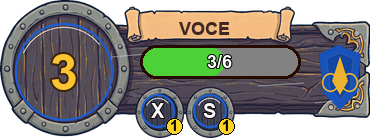
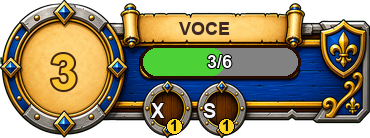
aa

diff --git a/css/game.css b/css/game.css
@@ -148,10 +148,6 @@ body.pvp-waiting-table #game-background::after { opacity: 0.45; animation-durati
 #p-stats-cluster .mastery-bloqueio .mastery-symbol { transform: translate(-50%, -50%); font-size: 21px; }
 #p-stats-cluster .mastery-lvl { position: absolute; bottom: -5px; right: -5px; width: 16px; height: 16px; font-size: 10px; border: 1px solid #000; }
 #m-stats-cluster { position: fixed; top: 20px; right: calc(50% - 50vw + 40px); width: 370px; height: 138px; --cluster-art-url: url('../assets/img/cluster_inimigo.webp'); --cluster-art-height: 100%; --cluster-art-top: 0%; overflow: visible; background-image: var(--cluster-art-url) !important; background-size: 100% 100%; background-repeat: no-repeat; background-position: center; background-color: transparent !important; border: none !important; border-radius: 0 !important; box-shadow: none !important; padding: 0 !important; min-width: auto !important; display: block !important; z-index: 100; filter: drop-shadow(0 10px 0px rgba(0, 0, 0, 0.5)); animation: hudFloat 4s ease-in-out infinite; }
-#p-stats-cluster.cluster-skin-equipped { background-image: none !important; }
-#p-stats-cluster.cluster-skin-equipped::before { content: ""; }
-#m-stats-cluster.cluster-skin-equipped { background-image: none !important; }
-#m-stats-cluster.cluster-skin-equipped::before { content: ""; transform: scaleX(-1); }
 #m-stats-cluster .unit-info { display: contents; }
 #m-stats-cluster .lvl-circle { position: absolute; right: 30px; top: 38px; width: 68px; height: 68px; background: transparent; border: none; box-shadow: none; color: #fbc531; font-family: 'Russo One', sans-serif; font-size: 50px; text-shadow: 2px 2px 0 #3c220f, -1px -1px 0 #602d0c, 1px -1px 0 #602d0c, -1px 1px 0 #602d0c, 1px 1px 0 #602d0c; display: flex; justify-content: center; align-items: center; margin: 0; }
 #m-stats-cluster .unit-name { position: absolute; right: 100px; top: 17px; width: 210px; font-family: 'MedievalSharp', cursive; font-size: 18px; color: #3e2723 !important; font-weight: 900; text-align: center; text-transform: uppercase; text-shadow: none; margin: 0; }

diff --git a/js/main.js b/js/main.js
@@ -824,7 +824,7 @@ function applyClusterSkinForUnit(u) {
     const fallback = u === player ? 'assets/img/cluster_jogador.webp' : 'assets/img/cluster_inimigo.webp';
     const assetPath = item?.asset || fallback;
     const assetUrlObj = new URL(assetPath, window.location.href);
-    if(item?.asset) assetUrlObj.searchParams.set('v', '20260701-knight-template-locked');
+    if(item?.asset) assetUrlObj.searchParams.set('v', '20260701-knight-ai-visible');
     const assetUrl = assetUrlObj.href;
     const artHeight = Number(item?.clusterArtHeight) || 1248;
     const artHeightPct = (artHeight / 1248) * 100;

diff --git a/scripts/install_ai_cluster_assets.py b/scripts/install_ai_cluster_assets.py
@@ -1,178 +1,77 @@
 from pathlib import Path
 
 import numpy as np
-from PIL import Image, ImageChops, ImageDraw, ImageEnhance, ImageFilter
+from PIL import Image, ImageDraw, ImageFont
 
 
 ROOT = Path(__file__).resolve().parents[1]
 IMG_DIR = ROOT / "assets" / "img"
 GEN_DIR = Path(r"C:\Users\Victor Franco\.codex\generated_images\019f10b1-7919-77a2-8061-f27fec20be13")
 
-TEMPLATE_PATH = IMG_DIR / "cluster_jogador.webp"
-OUTPUT_PATH = IMG_DIR / "cluster_cavaleiro_guardareal.webp"
-PREVIEW_PATH = IMG_DIR / "cluster_cavaleiro_guardareal_preview.png"
+SOURCE = GEN_DIR / "ig_07c1f2575ebdbe42016a438320092c8191b7f07f6f819fc802.png"
+OUTPUT = IMG_DIR / "cluster_cavaleiro_guardareal.webp"
+PREVIEW = IMG_DIR / "cluster_cavaleiro_guardareal_hud_preview.png"
 
-AI_KNIGHT_SOURCE = GEN_DIR / "ig_07c1f2575ebdbe42016a438320092c8191b7f07f6f819fc802.png"
-
-
-def rgba(path):
-    return Image.open(path).convert("RGBA")
+CANVAS = (3456, 1248)
+HUD_SIZE = (370, 138)
 
 
-def alpha_mask(img):
-    return img.getchannel("A")
-
-
-def classify_template(template):
-    arr = np.array(template.convert("RGBA")).astype(np.int16)
-    r, g, b, a = [arr[:, :, i] for i in range(4)]
-    maxc = np.maximum.reduce([r, g, b])
-    minc = np.minimum.reduce([r, g, b])
-    sat = maxc - minc
-    visible = a > 24
-
-    parchment = visible & (r > 150) & (g > 95) & (b > 60) & (r > g) & (g > b)
-    metal = visible & (sat < 42) & (r > 70) & (g > 70) & (b > 65)
-    gold = visible & (r > 145) & (g > 85) & (b < 95) & (sat > 48)
-    wood = visible & ~(parchment | metal | gold)
-
-    def mask(cond, blur=0.25):
-        m = Image.fromarray(np.where(cond, a, 0).clip(0, 255).astype(np.uint8), "L")
-        return m.filter(ImageFilter.GaussianBlur(blur))
-
-    return {
-        "visible": Image.fromarray(np.where(visible, a, 0).clip(0, 255).astype(np.uint8), "L"),
-        "wood": mask(wood, 0.35),
-        "parchment": mask(parchment, 0.2),
-        "metal": mask(metal, 0.35),
-        "gold": mask(gold, 0.2),
-    }
-
-
-def clean_ai_texture(template_size):
-    img = rgba(AI_KNIGHT_SOURCE)
+def remove_chroma(img):
+    img = img.convert("RGBA")
     key = np.array(img.getpixel((0, 0))[:3], dtype=np.float32)
     arr = np.array(img).astype(np.float32)
     rgb = arr[:, :, :3]
+    r, g, b = rgb[:, :, 0], rgb[:, :, 1], rgb[:, :, 2]
     dist = np.sqrt(np.sum((rgb - key) ** 2, axis=2))
     alpha = arr[:, :, 3]
-    alpha = np.where(dist < 44, 0, alpha)
-    alpha = np.where((dist >= 44) & (dist < 130), alpha * ((dist - 44) / 86), alpha)
+    alpha = np.where(dist < 46, 0, alpha)
+    alpha = np.where((dist >= 46) & (dist < 132), alpha * ((dist - 46) / 86), alpha)
+    if key[1] > 180:
+        green = (g > 92) & (g > r * 1.12) & (g > b * 1.12)
+        alpha = np.where(green, 0, alpha)
+        arr[:, :, 1] = np.where(alpha < 245, np.minimum(g, np.maximum(r, b) * 1.03), g)
     arr[:, :, 3] = np.clip(alpha, 0, 255)
-    img = Image.fromarray(arr.astype(np.uint8), "RGBA")
+    return Image.fromarray(arr.astype(np.uint8), "RGBA")
+
+
+def build_asset():
+    img = remove_chroma(Image.open(SOURCE))
     bbox = img.getbbox()
     if bbox:
         img = img.crop(bbox)
-    img = img.resize(template_size, Image.Resampling.LANCZOS)
-    return ImageEnhance.Contrast(img.filter(ImageFilter.SMOOTH_MORE)).enhance(1.08)
+    return img.resize(CANVAS, Image.Resampling.LANCZOS)
 
 
-def color_layer(template, mask, color, opacity=1.0):
-    gray = ImageEnhance.Contrast(template.convert("L")).enhance(1.16)
-    arr = np.array(gray).astype(np.float32) / 255.0
-    shade = 0.54 + arr * 0.68
-    rgb = np.zeros((template.height, template.width, 4), dtype=np.uint8)
-    for i, c in enumerate(color):
-        rgb[:, :, i] = np.clip(c * shade, 0, 255)
-    rgb[:, :, 3] = np.array(mask.point(lambda p: int(p * opacity)), dtype=np.uint8)
-    return Image.fromarray(rgb, "RGBA")
-
-
-def alpha_composite_masked(base, layer, mask, opacity=255):
-    layer = layer.copy()
-    layer.putalpha(ImageChops.multiply(mask, Image.new("L", base.size, opacity)))
-    base.alpha_composite(layer)
-
-
-def add_knight_details(img, masks):
-    d = ImageDraw.Draw(img, "RGBA")
-    w, h = img.size
-    sx = w / 370
-    sy = h / 138
-
-    def p(x, y):
-        return (x * sx, y * sy)
-
-    blue = (28, 94, 210, 230)
-    gold = (234, 178, 46, 235)
-    ink = (32, 18, 10, 230)
-    steel = (210, 220, 219, 215)
-
-    # Blue enamel accents on existing metal zones; all are outside text/HUD centers.
-    for cx, cy, r in ((64, 72, 49), (158, 111, 17), (210, 111, 17)):
-        x, y = p(cx, cy)
-        d.ellipse((x - r * sx, y - r * sy, x + r * sx, y + r * sy), outline=blue, width=max(4, int(2.2 * sx)))
-        d.arc((x - (r - 4) * sx, y - (r - 4) * sy, x + (r - 4) * sx, y + (r - 4) * sy), 205, 322, fill=(255, 255, 255, 70), width=max(2, int(0.75 * sx)))
-
-    # A knight shield/fleur-de-lis ornament on the original right ornament area.
-    shield = [p(338, 45), p(361, 54), p(357, 93), p(340, 110), p(323, 93), p(319, 54)]
-    d.polygon(shield, fill=(24, 83, 186, 215), outline=ink)
-    inner = [p(340, 53), p(353, 59), p(350, 88), p(340, 99), p(330, 88), p(327, 59)]
-    d.polygon(inner, outline=gold, fill=(18, 70, 165, 210))
-    x, y = p(340, 75)
-    d.polygon([(x, y - 19 * sy), (x + 8 * sx, y + 6 * sy), (x, y + 20 * sy), (x - 8 * sx, y + 6 * sy)], fill=gold, outline=ink)
-    d.ellipse((x - 18 * sx, y - 2 * sy, x - 1 * sx, y + 17 * sy), outline=gold, width=max(3, int(1.7 * sx)))
-    d.ellipse((x + 1 * sx, y - 2 * sy, x + 18 * sx, y + 17 * sy), outline=gold, width=max(3, int(1.7 * sx)))
-
-    # Small steel scratches and rivet highlights, clipped to original visible silhouette.
-    for x1, y1, x2, y2 in ((112, 57, 145, 54), (184, 64, 228, 62), (258, 86, 304, 83), (315, 103, 333, 101)):
-        d.line((*p(x1, y1), *p(x2, y2)), fill=steel, width=max(1, int(0.55 * sx)))
-
-    img.putalpha(masks["visible"])
-
-
-def build_knight_cluster():
-    template = rgba(TEMPLATE_PATH)
-    masks = classify_template(template)
-    out = Image.new("RGBA", template.size, (0, 0, 0, 0))
-
-    # AI art contributes painterly texture only, clipped to the original cluster silhouette.
-    texture = clean_ai_texture(template.size).convert("RGBA")
-    texture_gray = ImageEnhance.Contrast(texture.convert("L")).enhance(1.15)
-    texture_color = Image.merge(
-        "RGBA",
-        (
-            texture_gray.point(lambda p: int(32 + p * 0.22)),
-            texture_gray.point(lambda p: int(82 + p * 0.26)),
-            texture_gray.point(lambda p: int(160 + p * 0.34)),
-            ImageChops.multiply(alpha_mask(texture), masks["visible"]).point(lambda p: int(p * 0.18)),
-        ),
-    )
-    out.alpha_composite(texture_color)
-
-    alpha_composite_masked(out, color_layer(template, masks["wood"], (42, 101, 190), 0.94), masks["wood"])
-    alpha_composite_masked(out, color_layer(template, masks["metal"], (178, 187, 184), 0.9), masks["metal"])
-    alpha_composite_masked(out, color_layer(template, masks["gold"], (232, 174, 42), 0.88), masks["gold"])
-    alpha_composite_masked(out, color_layer(template, masks["parchment"], (236, 193, 126), 0.58), masks["parchment"])
-
-    # Preserve original cartoon ink/wood grain, which preserves visual alignment.
-    linework = ImageEnhance.Contrast(template).enhance(1.18)
-    linework.putalpha(masks["visible"].point(lambda p: int(p * 0.5)))
-    out.alpha_composite(linework)
-
-    add_knight_details(out, masks)
-    out.putalpha(masks["visible"])
-    return out
-
-
-def make_preview(cluster):
-    preview = cluster.resize((370, 138), Image.Resampling.LANCZOS)
+def make_hud_preview(asset):
+    preview = asset.resize(HUD_SIZE, Image.Resampling.LANCZOS)
     d = ImageDraw.Draw(preview, "RGBA")
-    # Reference boxes from the current CSS, not new positions.
-    d.rectangle((30, 38, 98, 106), outline=(255, 230, 0, 230), width=2)
-    d.rectangle((100, 17, 310, 39), outline=(0, 255, 255, 230), width=2)
-    d.rectangle((140, 45, 300, 78), outline=(0, 255, 0, 230), width=2)
-    d.ellipse((142, 95, 174, 127), outline=(255, 0, 255, 230), width=2)
-    d.ellipse((194, 95, 226, 127), outline=(255, 0, 255, 230), width=2)
-    preview.save(PREVIEW_PATH)
+    try:
+        f_big = ImageFont.truetype("arialbd.ttf", 50)
+        f_med = ImageFont.truetype("arialbd.ttf", 18)
+        f_small = ImageFont.truetype("arialbd.ttf", 20)
+        f_x = ImageFont.truetype("arialbd.ttf", 15)
+    except Exception:
+        f_big = f_med = f_small = f_x = None
+
+    # Current HUD positions from css/game.css. This preview must not invent new coordinates.
+    d.text((64, 72), "3", anchor="mm", font=f_big, fill=(251, 197, 49, 255), stroke_width=2, stroke_fill=(60, 34, 15, 255))
+    d.text((205, 28), "VOCE", anchor="mm", font=f_med, fill=(62, 39, 35, 255))
+    d.rounded_rectangle((140, 45, 300, 78), radius=16, outline=(38, 11, 0, 255), width=3, fill=(0, 0, 0, 125))
+    d.rounded_rectangle((143, 48, 224, 75), radius=13, fill=(76, 209, 55, 255))
+    d.text((220, 61), "3/6", anchor="mm", font=f_med, fill=(255, 255, 255, 255), stroke_width=1, stroke_fill=(0, 0, 0, 255))
+    for cx, symbol in ((158, "X"), (210, "S")):
+        d.text((cx, 111), symbol, anchor="mm", font=f_small, fill=(245, 247, 251, 255), stroke_width=1, stroke_fill=(20, 8, 3, 255))
+        d.ellipse((cx + 8, 118, cx + 24, 134), fill=(252, 211, 35, 255), outline=(0, 0, 0, 255), width=1)
+        d.text((cx + 16, 126), "1", anchor="mm", font=f_x, fill=(0, 0, 0, 255))
+    preview.save(PREVIEW)
 
 
 def main():
-    cluster = build_knight_cluster()
-    cluster.save(OUTPUT_PATH, "WEBP", lossless=True, quality=100, method=6)
-    make_preview(cluster)
-    print(f"saved {OUTPUT_PATH}")
-    print(f"saved {PREVIEW_PATH}")
+    asset = build_asset()
+    asset.save(OUTPUT, "WEBP", lossless=True, quality=100, method=6)
+    make_hud_preview(asset)
+    print(f"saved {OUTPUT}")
+    print(f"saved {PREVIEW}")
 
 
 if __name__ == "__main__":
